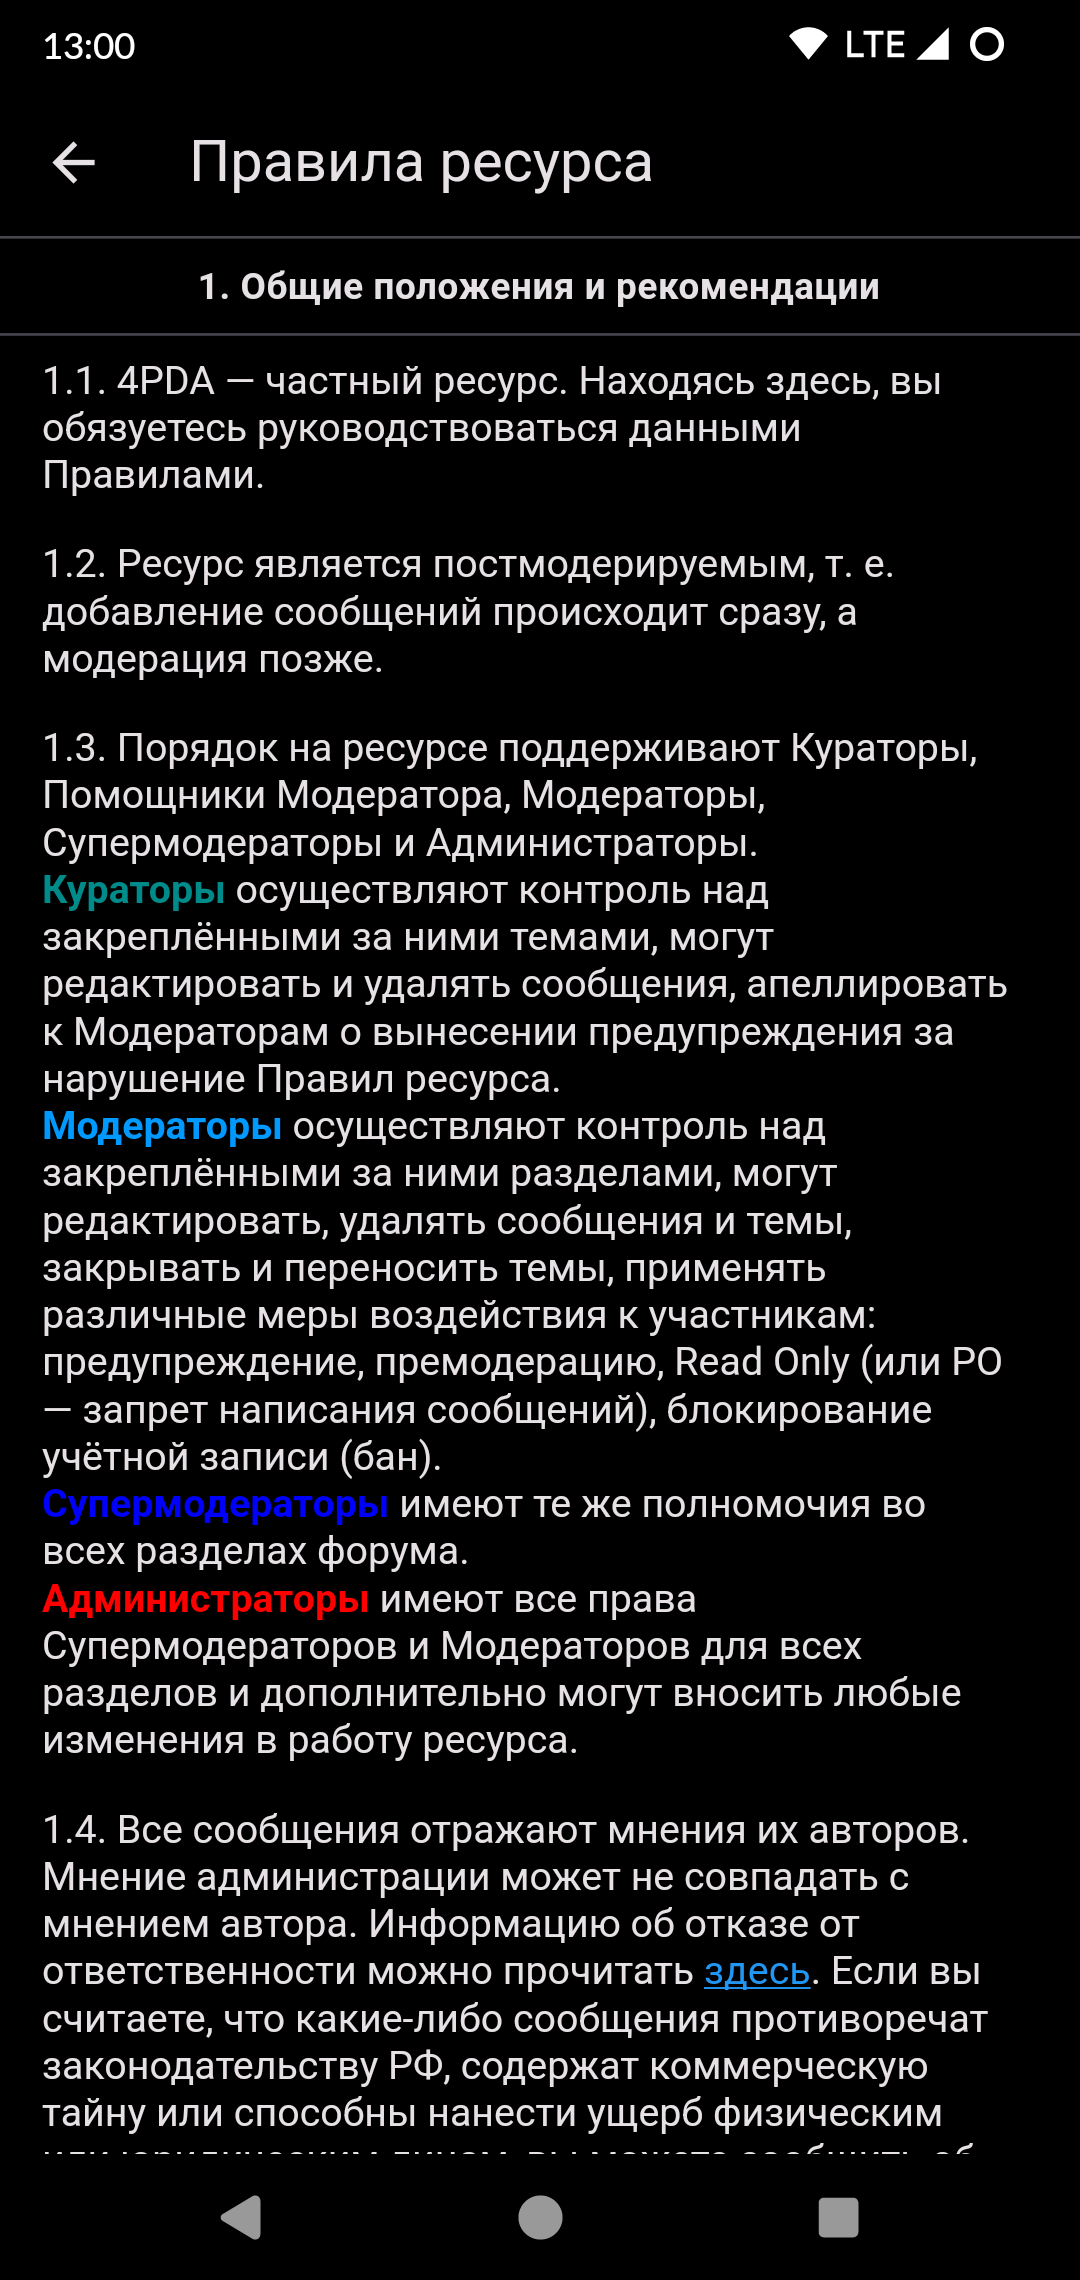
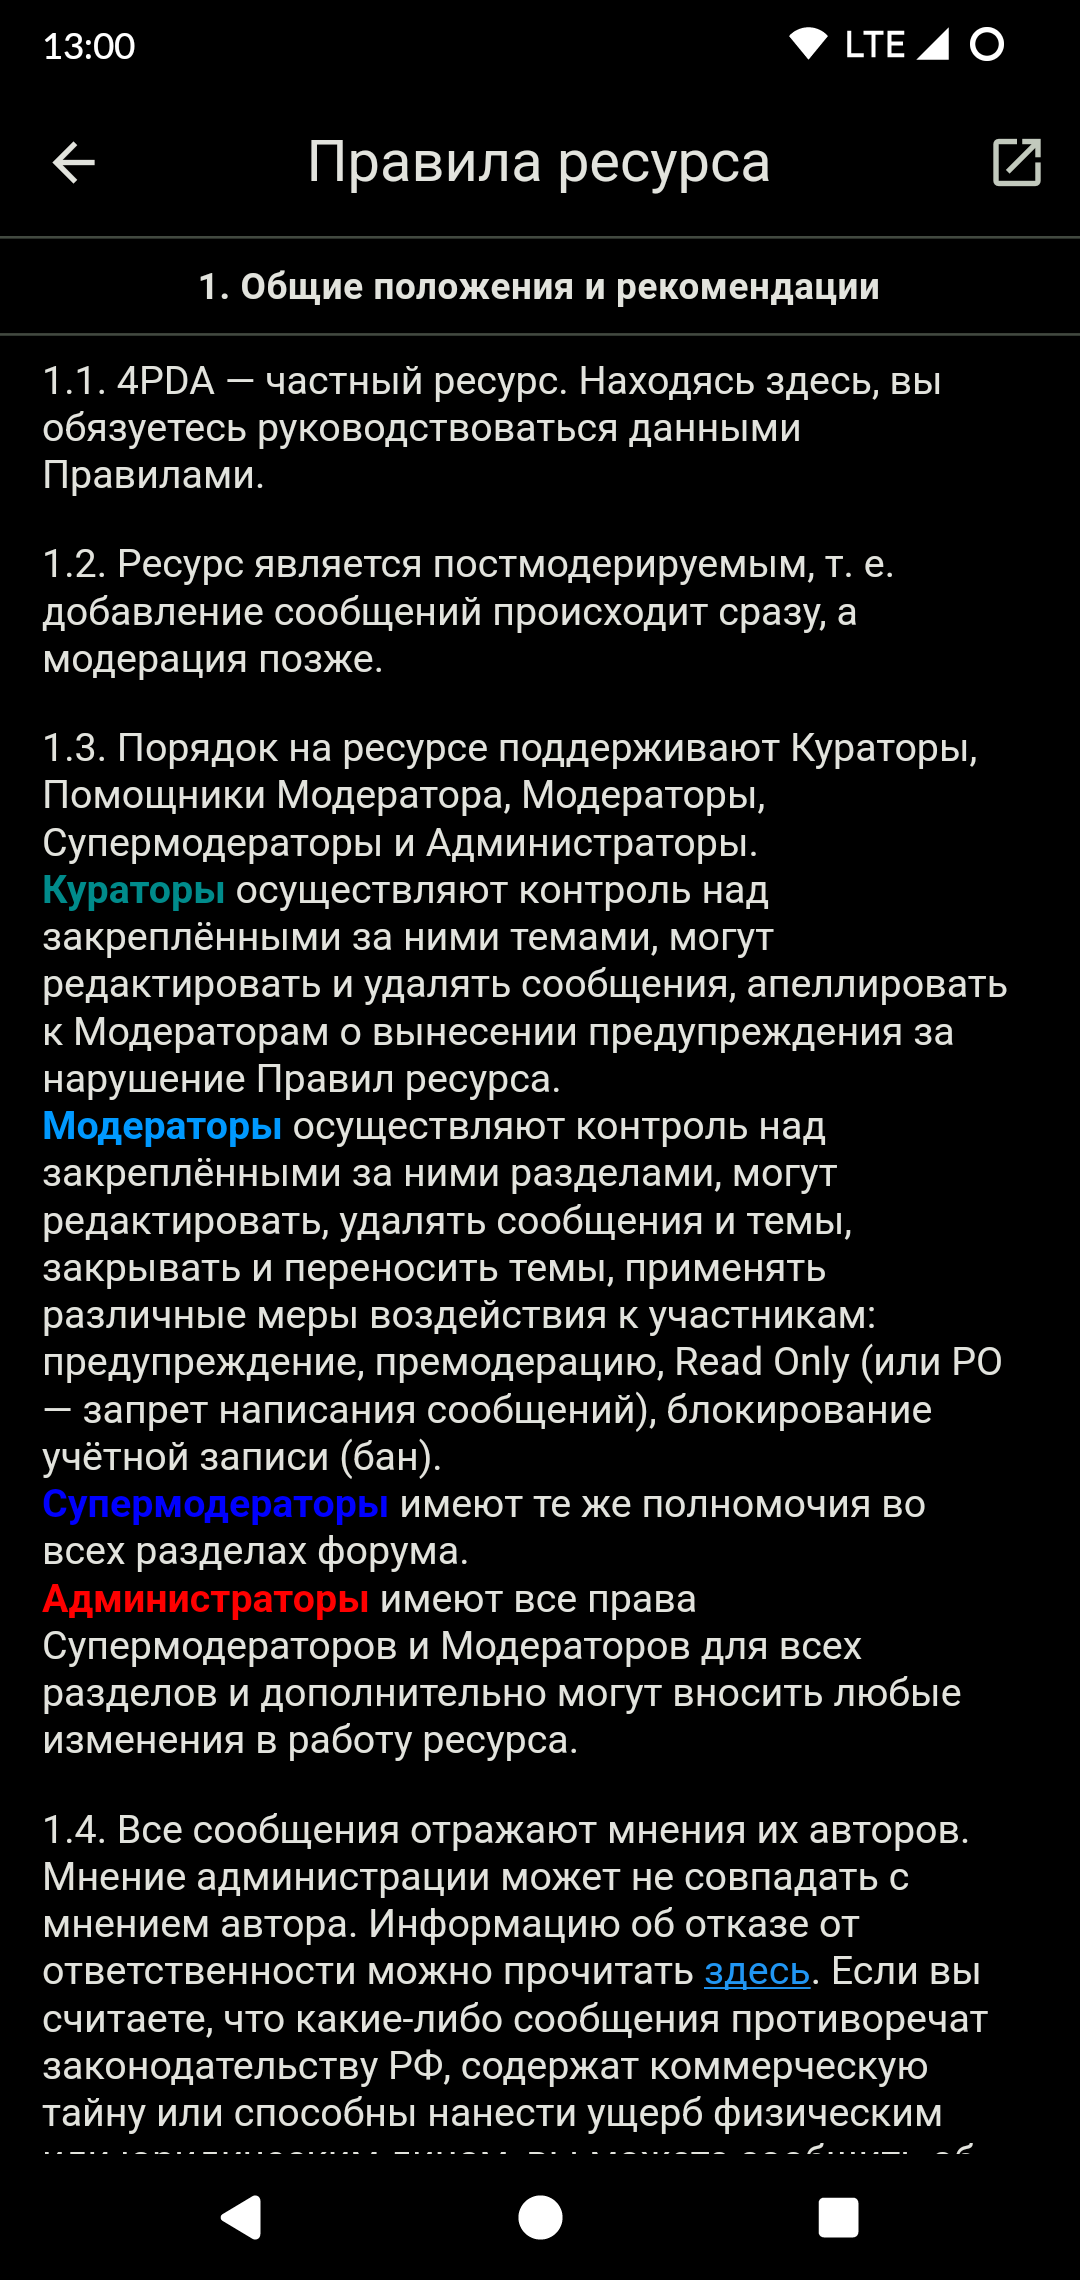
Some fixes

diff --git a/lib/features/account/ui/account_dialog.dart b/lib/features/account/ui/account_dialog.dart
@@ -1,7 +1,6 @@
 import 'package:firebase_auth/firebase_auth.dart';
 import 'package:flutter/material.dart';
 
-import '../../../shared/constants.dart';
 import '../../../utils/show_snackbar.dart';
 
 void showAccountDialog(BuildContext context) {

diff --git a/lib/core/app.dart b/lib/core/app.dart
@@ -22,6 +22,7 @@ class MainApp extends StatelessWidget {
           brightness: Brightness.dark,
         ),
         scaffoldBackgroundColor: Colors.black,
+        appBarTheme: const AppBarTheme(color: Colors.black),
       ),
     );
   }
